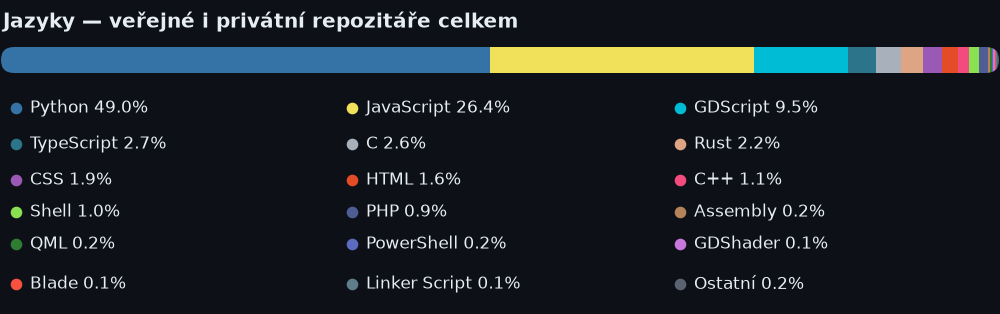
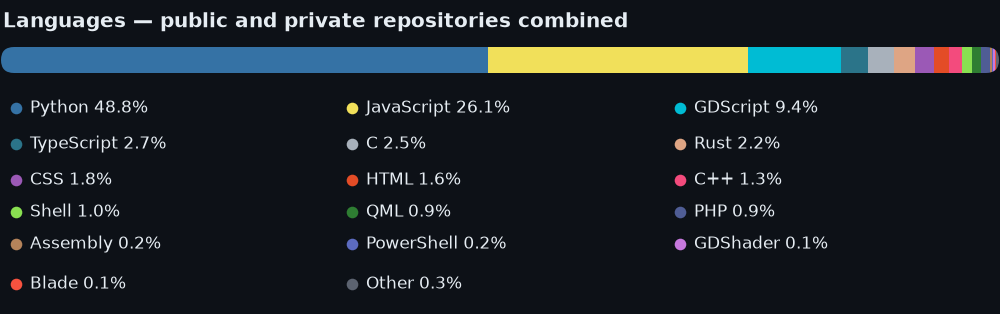
Regenerate the languages chart in English and include the Fedora theme repository

diff --git a/tools/gen_languages_all.py b/tools/gen_languages_all.py
@@ -1,5 +1,5 @@
 #!/usr/bin/env python3
-"""Regenerate assets/projects/languages-all.png — stacked language bar + legend.
+"""Regenerate assets/projects/languages-all.png — stacked language bar + legend (English labels).
 Data: gh api repos/pauliquib/<repo>/languages (bajty dle GitHub Linguist)."""
 import json, os, subprocess
 import matplotlib
@@ -9,18 +9,18 @@ from matplotlib.patches import Rectangle, FancyBboxPatch
 from matplotlib.transforms import Bbox
 
 REPOS = ["stone-and-clay","HardCoreMode","infoflowlab","Vlnky","Fedora-SecuriTUI",
-         "k3x020-nucleo","svec-studio","PRE2MULTI","sencurio-developer"]
+         "svec-studio-fedora-theme","k3x020-nucleo","svec-studio","PRE2MULTI","sencurio-developer"]
 OWNER = "pauliquib"
 REPO_ROOT = os.path.dirname(os.path.dirname(os.path.abspath(__file__)))
 OUT = os.path.join(REPO_ROOT, "assets", "projects", "languages-all.png")
 
-# paleta vytezena z puvodniho grafu (custom, ne cisty linguist)
+# palette taken from the original chart (custom, not plain Linguist)
 COLORS = {
     "Python":"#3572a5","JavaScript":"#f1e05a","GDScript":"#00bcd4","TypeScript":"#2b7489",
     "C":"#a8b1bb","Rust":"#dea584","CSS":"#9b59b6","HTML":"#e34c26","C++":"#f34b7d",
     "Shell":"#89e051","PHP":"#4f5d95","Assembly":"#b5835a","QML":"#2e7d32",
     "PowerShell":"#5c6bc0","GDShader":"#c678dd","Blade":"#f7523f",
-    "Linker Script":"#607d8b","Ostatní":"#5c6370",
+    "Linker Script":"#607d8b","Other":"#5c6370",
 }
 BG, FG = "#0d1117", "#e6edf3"
 W, H = 1000, 314
@@ -35,7 +35,7 @@ items = sorted(tot.items(), key=lambda kv:-kv[1])
 thr = total*0.001
 named = [(k,v) for k,v in items if v >= thr]
 other = sum(v for k,v in items if v < thr)
-entries = named + [("Ostatní", other)]
+entries = named + [("Other", other)]
 assert len(entries) <= 18, len(entries)
 
 fig = plt.figure(figsize=(W/100, H/100), dpi=100)
@@ -43,10 +43,10 @@ fig.patch.set_facecolor(BG)
 ax = fig.add_axes([0,0,1,1]); ax.set_xlim(0,W); ax.set_ylim(0,H); ax.axis("off")
 ax.set_facecolor(BG)
 
-ax.text(3, H-22, "Jazyky — veřejné i privátní repozitáře celkem",
+ax.text(3, H-22, "Languages — public and private repositories combined",
         color=FG, fontsize=14.5, fontweight="bold", va="center", ha="left")
 
-# stacked bar: y 48-73, x 1-999, pill clip
+# stacked bar, pill-shaped clip
 bar_x0, bar_x1, bar_y0, bar_y1 = 1, 999, 241, 267
 pill = FancyBboxPatch((bar_x0, bar_y0), bar_x1-bar_x0, bar_y1-bar_y0,
                       boxstyle="round,pad=0,rounding_size=13",
@@ -60,7 +60,7 @@ for name, b in entries:
     ax.add_patch(r)
     x += wseg
 
-# legenda: row-major, 3 sloupce x 6 radku (stejna geometrie jako puvodni)
+# legend: row-major, 3 columns x 6 rows
 cols_x = [16, 352, 680]; text_dx = 14
 rows_y = [206, 170, 134, 102, 70, 30]
 for i,(name,b) in enumerate(entries):

diff --git a/README.md b/README.md
@@ -85,7 +85,7 @@ An STM32 Nucleo-H753ZI as a replacement controller for an industrial 24 V I/O bo
 
 <img src="assets/thumbs/k3x020-pcb-horni.webp" width="49%"> <img src="assets/thumbs/k3x020-pcb-spodni.webp" width="49%">
 
-## Jazyky
+## Languages
 
 A summary across **all** repositories, public and private (`stone-and-clay`, `HardCoreMode`, `infoflowlab`, `Vlnky`, `Fedora-SecuriTUI`, `svec-studio-fedora-theme`, `k3x020-nucleo`, `svec-studio`, `PRE2MULTI`, `sencurio-developer`), by bytes of code as counted by GitHub — no file contents are used. I excluded vendor libraries and third-party add-ons (STM32 HAL/CMSIS, ESP-IDF managed components, Godot add-ons, Three.js/floorplan3d JS libraries) with `.gitattributes` (`linguist-vendored`), so the graph reflects the code I wrote, not the SDKs and plugins I linked:
 
